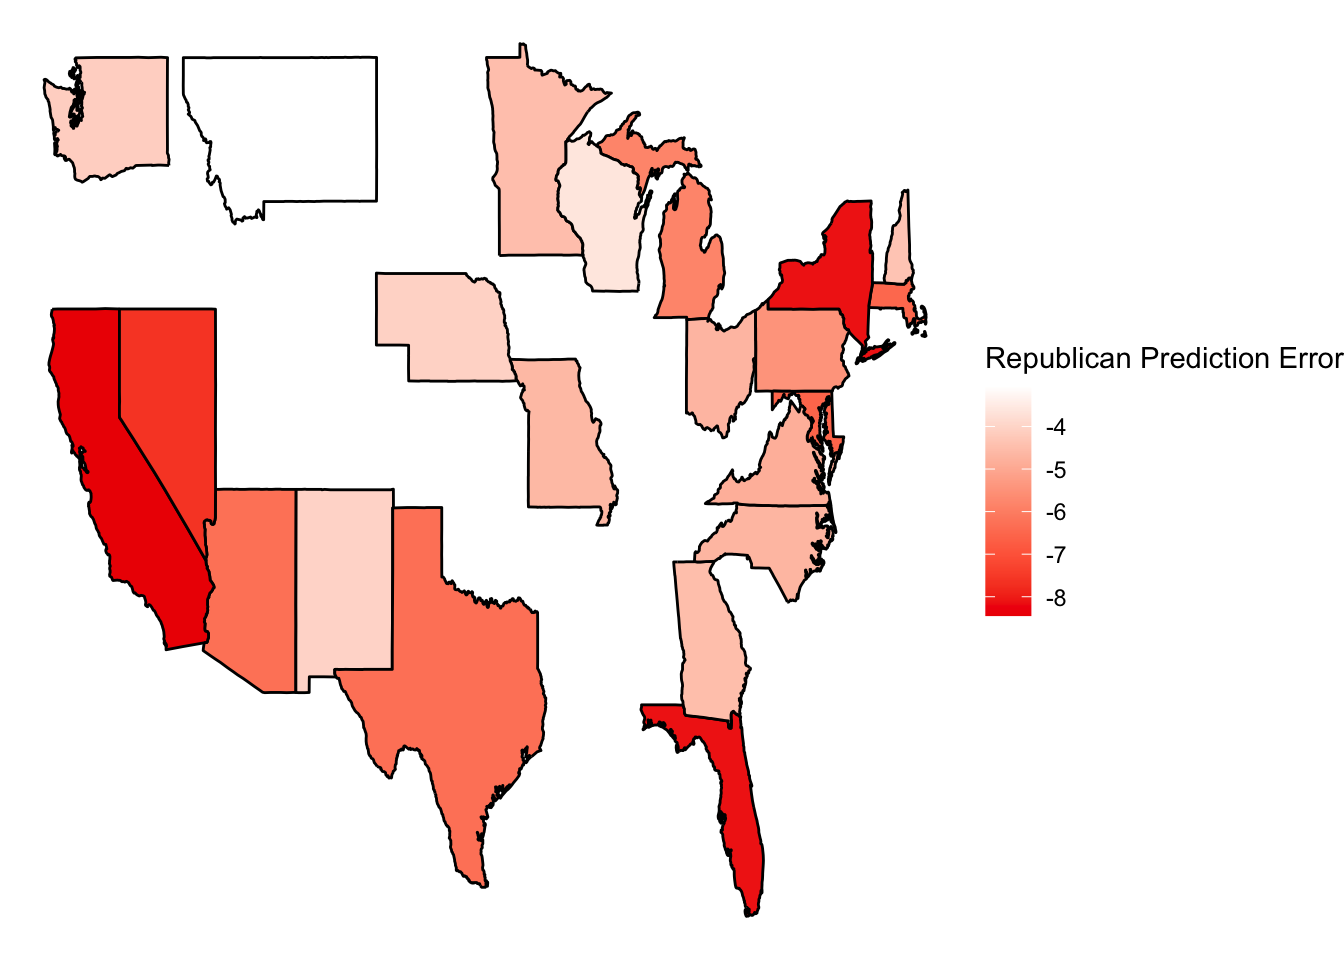
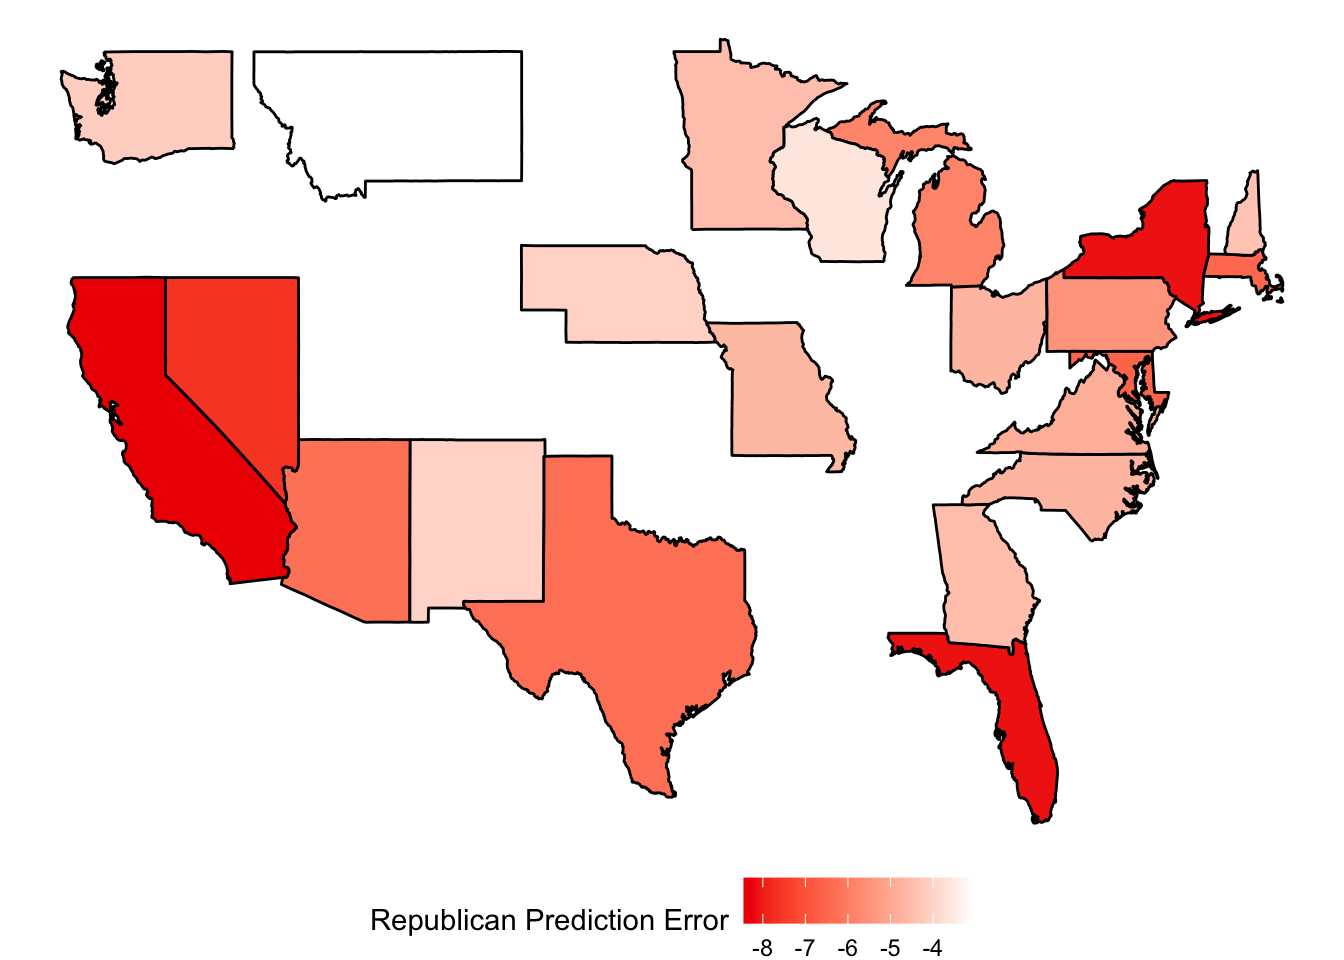
update maps

diff --git a/public/post/2024/11/07/post-election-reflection/index.html b/public/post/2024/11/07/post-election-reflection/index.html
@@ -1,6 +1,6 @@
 <!DOCTYPE html>
 <html lang="en-us">
-  <head>
+  <head><script src="/livereload.js?mindelay=10&amp;v=2&amp;port=4321&amp;path=livereload" data-no-instant defer></script>
     <meta charset="utf-8">
     <meta name="viewport" content="width=device-width, initial-scale=1">
     <title>Post-Election Reflection | A minimal Hugo website</title>
@@ -155,7 +155,7 @@
 </table>
 <p>Figure 4 - Predicted Winners by State (excluding states without polling data)</p>
 <p>(Thank you to Matt for the starter code!)</p>
-<img src="https://example.org/post/2024/11/07/post-election-reflection/index_files/figure-html/unnamed-chunk-4-1.png" width="672" />
+<img src="/post/2024/11/07/post-election-reflection/index_files/figure-html/unnamed-chunk-4-1.png" width="672" />
 <p>Clearly, this model vastly overpredicted Kamala Harris&rsquo;s performance in this election.</p>
 <h1 id="trends-in-model-accuracy">Trends in Model Accuracy</h1>
 <p>My model demonstrates a strong performance for Democrats everywhere, including in a state that was largely predicted to vote Republican even prior to the election (although only by a very small margin) based on the polls. This suggests that the other variables I included in my model might be positively skewing Democratic performance. To explore this further, I calculated the mean absolute performance error of each prediction type and ranked states based on how well my model predicted their Democratic and Republican vote shares.</p>
@@ -356,7 +356,7 @@
 <p>This analysis demonstrates that my model generally did better at predicting Democratic vote shares than Republican vote shares, with the magnitude of the prediction error generally being lower for the Democratic outcomes. In particular, the mean absolute performance error for Democratic performance was 3.30, while that for Republican performance was 5.47. However, my model consistently both overpredicted Democratic performance and underpredicted Republican performance, leading to large prediction errors when trying to predict state winners.</p>
 <p>Interestingly, this analysis suggests that the model also did a better job at predicting Democratic Vote Share than Republican vote share in the seven swing states. In terms of raw numbers, the absolute value of the best Republican prediction is larger than six out of the seven Democratic prediction errors, indicating that the Democratic model clearly had better performance. However, when also considering all of the other states, it seems like the model did a slightly better job at predicting the battleground states&rsquo; Democratic turnout, with four out of the seven appearing in the top 10 Democratic predictions and only three out of the seven appearing in the top 10 Republican predictions.</p>
 <p>To understand geographic trends further, I charted my model&rsquo;s performance on both metrics.</p>
-<p><img src="https://example.org/post/2024/11/07/post-election-reflection/index_files/figure-html/unnamed-chunk-11-1.png" width="672" /><img src="https://example.org/post/2024/11/07/post-election-reflection/index_files/figure-html/unnamed-chunk-11-2.png" width="672" /></p>
+<p><img src="/post/2024/11/07/post-election-reflection/index_files/figure-html/unnamed-chunk-11-1.png" width="672" /><img src="/post/2024/11/07/post-election-reflection/index_files/figure-html/unnamed-chunk-11-2.png" width="672" /></p>
 <p>These maps seem to demonstrate that my models were especially inaccurate in states that were not deemed swing states in the 2024 election, such as California, Florida, Texas, Maryland, Massachusetts, and New York. This is likely because I selected my model based on its performance in predicting outcomes in the seven 2024 swing states.</p>
 <p>Nevertheless, it is interesting to note that my model had greater prediction errors in some swing states than others. For example, we see from both the visual analysis and the tables above that the model had worse prediction errors in Arizona and Nevada (the bottom two battleground states in terms of both Democratic and Republican prediction errors) than Wisconsin and Georgia.</p>
 <h1 id="hypotheses">Hypotheses</h1>
@@ -386,8 +386,9 @@ Zou, Hui, and Trevor Hastie. 2005. “Regularization and Variable Selection Via 
 akrun. 2020. “Answer to ‘How Do I Find Top 5 Values in a Data Frame Column?’” Stack Overflow. <a href="https://stackoverflow.com/a/63221153">https://stackoverflow.com/a/63221153</a>.
 The New York Times. 2024a. “Maine Second District Presidential Election Results,” November 5, 2024, sec. U.S. <a href="https://www.nytimes.com/interactive/2024/11/05/us/elections/results-maine-president-district-2.html">https://www.nytimes.com/interactive/2024/11/05/us/elections/results-maine-president-district-2.html</a>.
 ———. 2024b. “Nebraska Second District Presidential Election Results,” November 5, 2024, sec. U.S. <a href="https://www.nytimes.com/interactive/2024/11/05/us/elections/results-nebraska-president-district-2.html">https://www.nytimes.com/interactive/2024/11/05/us/elections/results-nebraska-president-district-2.html</a>.</p>
-<p>(5) Build a data frame—Tibble. (n.d.). Retrieved November 17, 2024, from <a href="https://tibble.tidyverse.org/reference/tibble.html">https://tibble.tidyverse.org/reference/tibble.html</a></p>
-<p>(6) G, Ben. 2018. “Answer to ‘Left Join Only Selected Columns in R with the Merge() Function.’” Stack Overflow. <a href="https://stackoverflow.com/a/50746374">https://stackoverflow.com/a/50746374</a>.</p>
+<p>(5) Build a data frame—Tibble. (n.d.). Retrieved November 17, 2024, from <a href="https://tibble.tidyverse.org/reference/tibble.html">https://tibble.tidyverse.org/reference/tibble.html</a>
+(5) hadley. (2010, June 2). Answer to “How to move or position a legend in ggplot2” [Online post]. Stack Overflow. <a href="https://stackoverflow.com/a/2954610">https://stackoverflow.com/a/2954610</a></p>
+<p>(6) G, Ben. 2018. “Answer to ‘Left Join Only Selected Columns in R with the Merge() Function.’” Stack Overflow. <a href="https://stackoverflow.com/a/50746374.;">https://stackoverflow.com/a/50746374.;</a> hadley. (2010, June 2). Answer to “How to move or position a legend in ggplot2” [Online post]. Stack Overflow. <a href="https://stackoverflow.com/a/2954610">https://stackoverflow.com/a/2954610</a></p>
 <p>(7) Swenson, A. (2024, September 24). Several states are making late changes to election rules, even as voting is set to begin | AP News. AP News. <a href="https://apnews.com/article/election-2024-voting-ballots-certification-state-laws-c6d5a339503771596758a733851bfeae">https://apnews.com/article/election-2024-voting-ballots-certification-state-laws-c6d5a339503771596758a733851bfeae</a></p>
 <p>(8) Lopez, G. (2024, November 8). How Inflation Shaped Voting. The New York Times. <a href="https://www.nytimes.com/2024/11/08/briefing/how-inflation-shaped-voting.html">https://www.nytimes.com/2024/11/08/briefing/how-inflation-shaped-voting.html</a>
 Zahn, M. (2024, November 8). Why inflation helped tip the election toward Trump, according to experts. ABC News. <a href="https://abcnews.go.com/Business/inflation-helped-tip-election-trump-experts/story?id=115601699">https://abcnews.go.com/Business/inflation-helped-tip-election-trump-experts/story?id=115601699</a></p>

diff --git a/public/index.html b/public/index.html
@@ -1,7 +1,7 @@
 <!DOCTYPE html>
 <html lang="en-us">
   <head>
-	<meta name="generator" content="Hugo 0.134.0">
+	<meta name="generator" content="Hugo 0.134.0"><script src="/livereload.js?mindelay=10&amp;v=2&amp;port=4321&amp;path=livereload" data-no-instant defer></script>
     <meta charset="utf-8">
     <meta name="viewport" content="width=device-width, initial-scale=1">
     <title>Home | A minimal Hugo website</title>

diff --git a/content/post/2024-11-07-post-election-reflection/index.md b/content/post/2024-11-07-post-election-reflection/index.md
@@ -210,8 +210,9 @@ The New York Times. 2024a. “Maine Second District Presidential Election Result
 ———. 2024b. “Nebraska Second District Presidential Election Results,” November 5, 2024, sec. U.S. https://www.nytimes.com/interactive/2024/11/05/us/elections/results-nebraska-president-district-2.html.
 
 (5) Build a data frame—Tibble. (n.d.). Retrieved November 17, 2024, from https://tibble.tidyverse.org/reference/tibble.html
+(5) hadley. (2010, June 2). Answer to “How to move or position a legend in ggplot2” [Online post]. Stack Overflow. https://stackoverflow.com/a/2954610
 
-(6) G, Ben. 2018. “Answer to ‘Left Join Only Selected Columns in R with the Merge() Function.’” Stack Overflow. https://stackoverflow.com/a/50746374.
+(6) G, Ben. 2018. “Answer to ‘Left Join Only Selected Columns in R with the Merge() Function.’” Stack Overflow. https://stackoverflow.com/a/50746374.; hadley. (2010, June 2). Answer to “How to move or position a legend in ggplot2” [Online post]. Stack Overflow. https://stackoverflow.com/a/2954610
 
 (7) Swenson, A. (2024, September 24). Several states are making late changes to election rules, even as voting is set to begin | AP News. AP News. https://apnews.com/article/election-2024-voting-ballots-certification-state-laws-c6d5a339503771596758a733851bfeae
 
